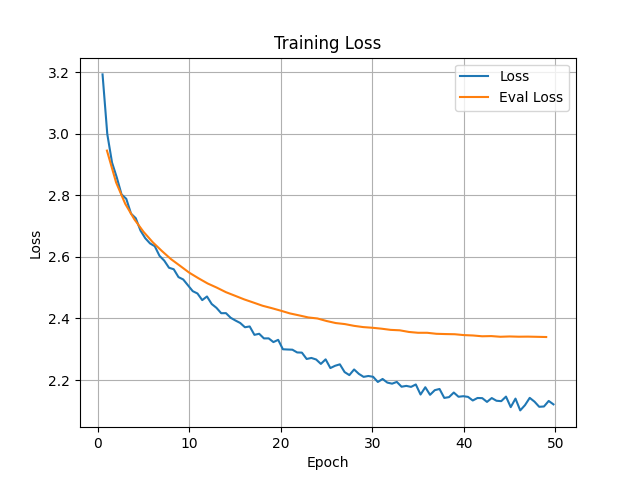
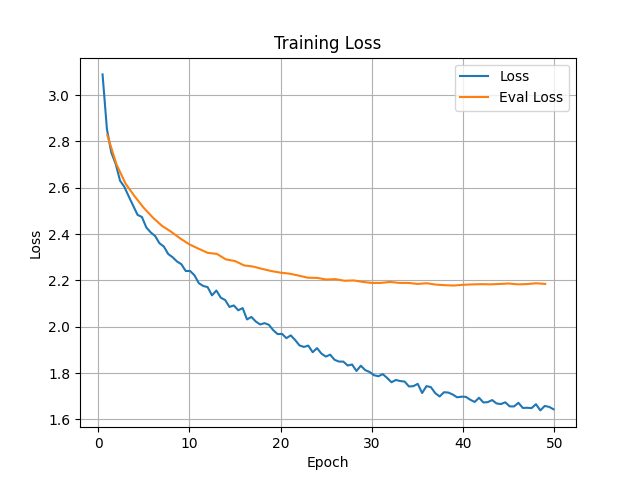
Refactor code structure to use CLM submodule and improve data loading functionality

diff --git a/services/huggingface/MLM/data_loader.py b/services/huggingface/MLM/data_loader.py
@@ -1,0 +1,43 @@
+from datasets import load_dataset
+from datasets.arrow_dataset import Dataset
+from transformers.tokenization_utils_fast import PreTrainedTokenizerFast
+from typing import Literal
+from utils.token_manager import get_hf_token
+
+from utils.globals import BLOCK_SIZE
+
+def data_loader(tokenizer : PreTrainedTokenizerFast, split : Literal["train", "validation"]) -> Dataset:
+    ds = load_dataset("avinot/LoL-Corpus-v4", split=split, token=get_hf_token("read"))
+    ds = ds.flatten()
+    
+    def preprocess_function(examples):
+        return tokenizer(["".join(x.lower()) for x in examples["text"]])
+
+    tokenized_ds = ds.map(
+        preprocess_function,
+        batched=True,
+        num_proc=4,
+        remove_columns=ds.column_names
+    )
+    
+    def group_texts(examples):
+        # Concatenate all texts.
+        concatenated_examples = {k: sum(examples[k], []) for k in examples.keys()}
+        total_length = len(concatenated_examples[list(examples.keys())[0]])
+        # We drop the small remainder, we could add padding if the model supported it instead of this drop, you can
+        # customize this part to your needs.
+        if total_length >= BLOCK_SIZE:
+            total_length = (total_length // BLOCK_SIZE) * BLOCK_SIZE
+        # Split by chunks of BLOCK_SIZE.
+        result = {
+            k: [t[i : i + BLOCK_SIZE] for i in range(0, total_length, BLOCK_SIZE)]
+            for k, t in concatenated_examples.items()
+        }
+        result["labels"] = result["input_ids"].copy()
+        return result
+    
+    lm_dataset = tokenized_ds.map(group_texts, batched=True, num_proc=4)
+    
+    return lm_dataset
+    
+    

diff --git a/services/huggingface/MLM/trainer_loader.py b/services/huggingface/MLM/trainer_loader.py
@@ -1,0 +1,41 @@
+from transformers import TrainingArguments, Trainer, DataCollatorForLanguageModeling, AutoModelForCausalLM
+from transformers.tokenization_utils_fast import PreTrainedTokenizerFast
+from datasets.arrow_dataset import Dataset
+from peft.peft_model import PeftModelForCausalLM
+
+from typing import Union
+
+from utils.globals import *
+from utils.token_manager import get_hf_token
+
+def trainer_hf(
+    model_name : str,
+    model : AutoModelForCausalLM,
+    tokenizer : PreTrainedTokenizerFast,
+    dataset_train : Dataset,
+    dataset_validation : Dataset,
+    epochs : int = EPOCHS
+) -> Trainer:
+    tokenizer.pad_token = tokenizer.eos_token
+    data_collator = DataCollatorForLanguageModeling(tokenizer=tokenizer, mlm_probability=0.15)
+    
+    
+    training_args = TrainingArguments(
+        output_dir=f"./results/{model_name}",
+        evaluation_strategy="epoch",
+        learning_rate=2e-5,
+        num_train_epochs=epochs,
+        weight_decay=0.01,
+        push_to_hub=True,
+        hub_token=get_hf_token("write"),
+    )
+    
+    trainer = Trainer(
+        model=model,
+        args=training_args,
+        train_dataset=dataset_train,
+        eval_dataset=dataset_validation,
+        data_collator=data_collator
+    )
+    
+    return trainer

diff --git a/services/huggingface/MLM/model_loader.py b/services/huggingface/MLM/model_loader.py
@@ -1,0 +1,22 @@
+from transformers import AutoModelForCausalLM, AutoTokenizer
+from transformers.tokenization_utils_fast import PreTrainedTokenizerFast
+from peft import get_peft_model, LoraConfig, TaskType
+from peft.peft_model import PeftModelForCausalLM
+
+from utils.token_manager import get_hf_token
+from utils.globals import *
+import huggingface_hub
+from typing import Literal
+
+
+def get_model_and_tokenizer_hf(model_name : str) -> tuple[AutoModelForCausalLM, PreTrainedTokenizerFast]:
+    huggingface_hub.login(token=get_hf_token("read"))
+    model : AutoModelForCausalLM
+    tokenizer : PreTrainedTokenizerFast
+    model = AutoModelForCausalLM.from_pretrained(
+        model_name,
+        use_cache=False
+    )
+    tokenizer = AutoTokenizer.from_pretrained(model_name)
+    
+    return model, tokenizer

diff --git a/main.py b/main.py
@@ -1,11 +1,11 @@
-from services.huggingface.model_loader import get_model_and_tokenizer_hf
-from services.huggingface.data_loader import data_loader, data_loader_eli5
-from services.huggingface.trainer_loader import trainer_hf
+from services.huggingface.CLM.model_loader import get_model_and_tokenizer_hf
+from services.huggingface.CLM.data_loader import data_loader, data_loader_eli5
+from services.huggingface.CLM.trainer_loader import trainer_hf
 from utils.globals import EPOCHS
 
 def main():
     for epochs in [50]:
-        ft_mode = "classic"
+        ft_mode = "lora"
         model, tokenizer = get_model_and_tokenizer_hf(ft_mode)
         dataset_train = data_loader(tokenizer, "train")
         # dataset = data_loader_eli5(tokenizer)

diff --git a/services/huggingface/CLM/model_loader.py b/services/huggingface/CLM/model_loader.py
@@ -24,6 +24,7 @@ def get_model_and_tokenizer_hf(ft_type : Literal["classic", "lora"]) -> tuple[Pe
             r = 128,
             lora_alpha=32,
             target_modules = ["q_proj", "k_proj", "v_proj", "o_proj"],
+            # target_modules = ["q_proj", "k_proj", "v_proj", "o_proj", "gate_proj", "down_proj", "up_proj"],
             lora_dropout=0.05,
             bias="none",
             task_type=TaskType.CAUSAL_LM

diff --git a/test.py b/test.py
@@ -18,6 +18,6 @@ def generate_text(prompt, max_length=200):
     outputs = model.generate(**inputs, max_length=max_length, top_k=50, top_p=0.95)
     return tokenizer.decode(outputs[0], skip_special_tokens=True)
 
-user_input = "What does the ability \"Dark Passage\" do in Thresh's kit ?"
+user_input = "In which champion class does the champion 'Thresh' belong to ?"
 response = generate_text(user_input)
 print(response)

diff --git a/services/huggingface/CLM/data_loader.py b/services/huggingface/CLM/data_loader.py
@@ -13,7 +13,7 @@ def data_loader(tokenizer : PreTrainedTokenizerFast, split : Literal["train", "v
     
     # First we tokenize the dataset
     def preprocess_function(examples):
-        return tokenizer(["".join(x) for x in examples["text"]])
+        return tokenizer(["".join(x.lower()) for x in examples["text"]])
     
     tokenized_ds = ds.map(
         preprocess_function,
